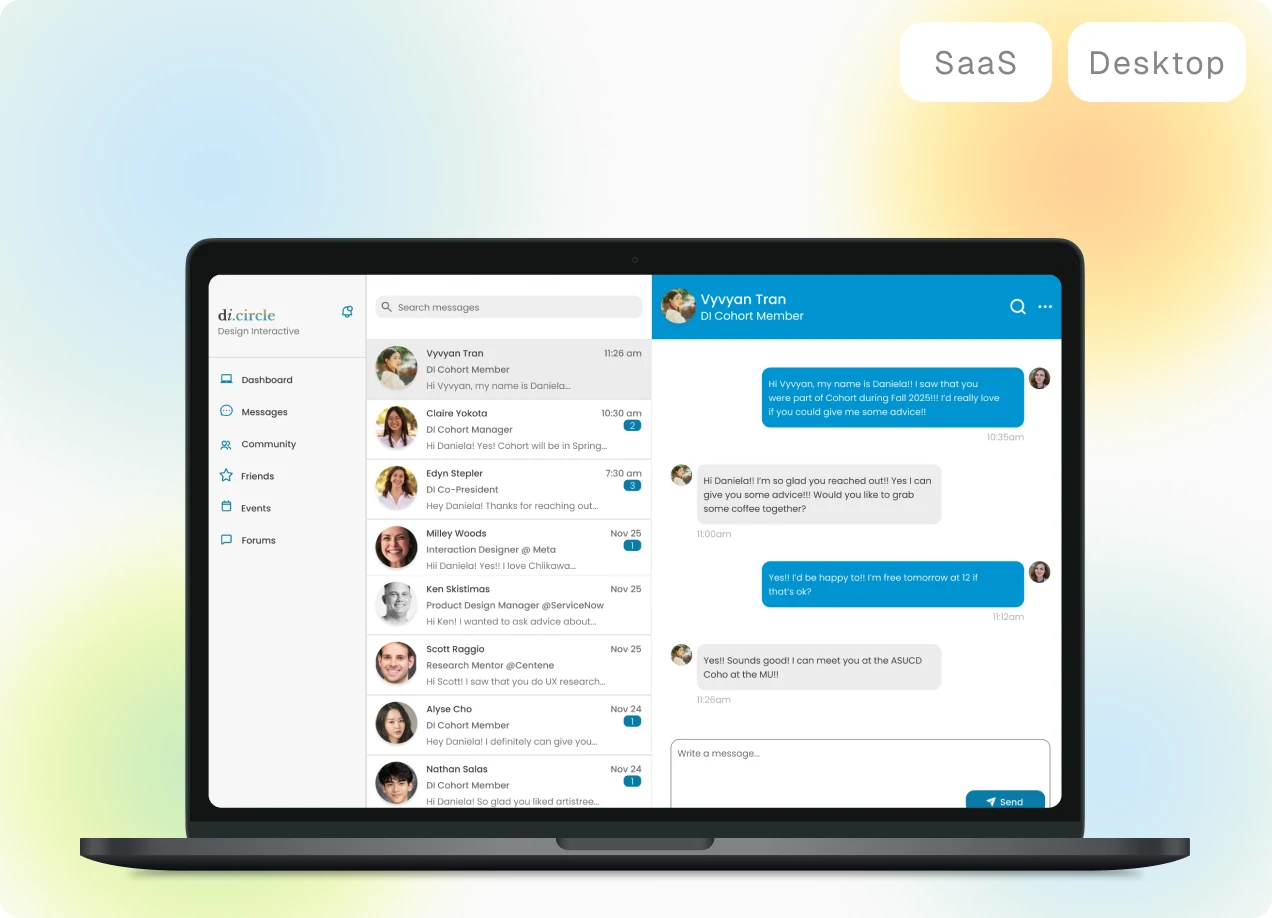
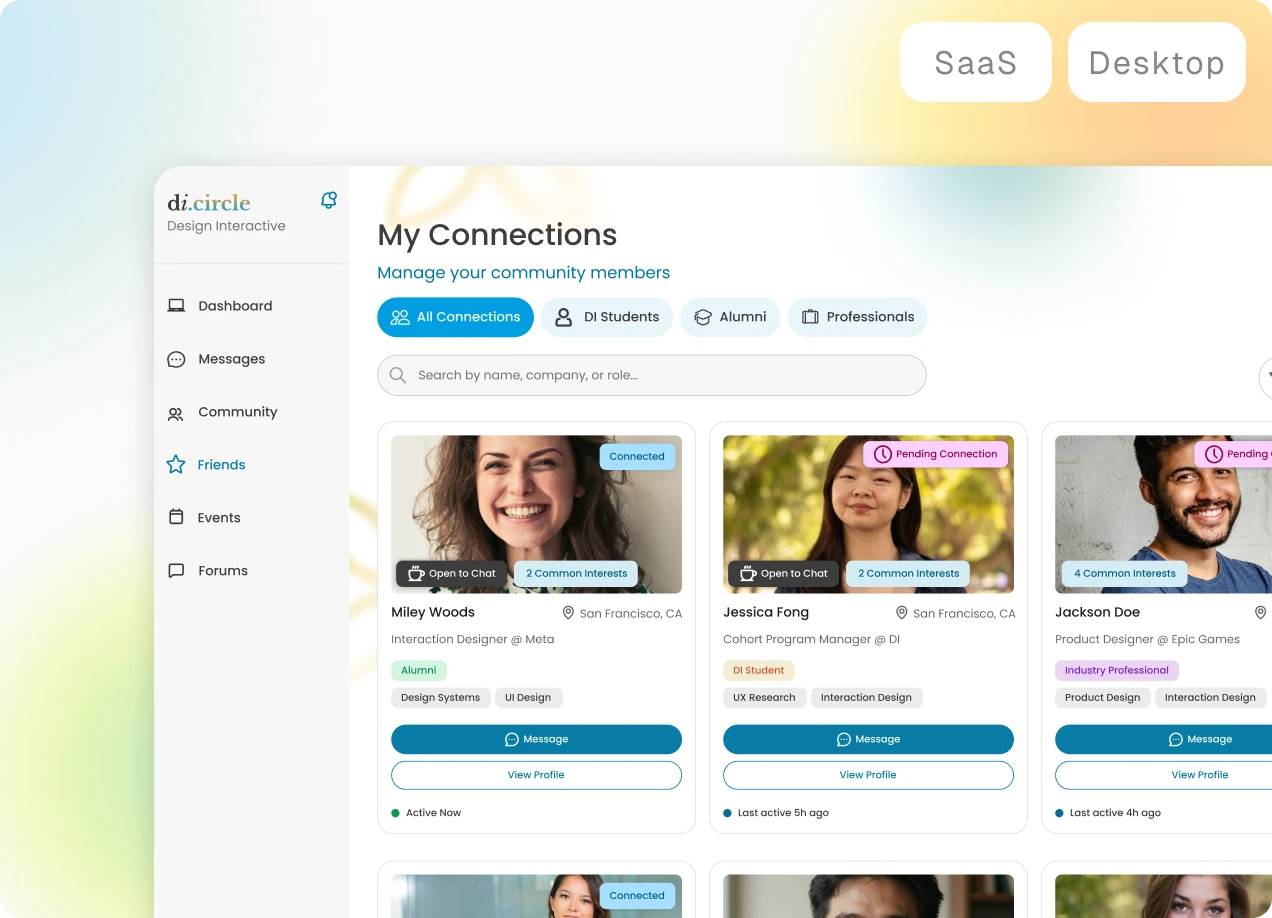
Update the di.circle card cover and copy
New cover is 1272x918 -- the same as the file it replaces and as the
ThreadIt cover -- so the grid is unchanged. Alt text updated to match what
the image now shows.

Title and subtitle now mirror the case study's own h1 and subtitle. The
title is 88 characters against ThreadIt's 58 but still sets on two lines at
1440, so both cards measure 663px tall; on a phone it runs to four lines
against ThreadIt's three.

diff --git a/src/components/WorkCards.tsx b/src/components/WorkCards.tsx
@@ -95,12 +95,13 @@ export default function WorkCards() {
               Design Interactive • Dec 2025
             </RevealText>
             <div style={{ position: "relative", width: "100%" }}>
-              <RevealImage src="/assets/cover-dicircle.webp" alt="The di.circle messaging dashboard on a laptop, showing a student's conversation with a cohort member" style={{ display: "block", width: "100%", height: "auto", borderRadius: 16 }} />
+              <RevealImage src="/assets/cover-dicircle.webp" alt="The di.circle My Connections screen, showing community member cards with their relationship states" style={{ display: "block", width: "100%", height: "auto", borderRadius: 16 }} />
               <div className="work-card-overlay" aria-hidden="true" />
             </div>
+            {/* Mirrors the case study's own h1 and subtitle. */}
             <CardText
-              title="Turning professional connections into lasting relationships"
-              subtitle="Helping students maintain professional relationships informed by usability testing with 8 students"
+              title="Lowering the psychological barrier to starting and maintaining professional relationships"
+              subtitle="Redesigning student-to-professional outreach through insights from 8 usability tests"
             />
             {/* Only rendered on touch devices (see .work-card-cta). */}
             <p className="work-card-cta">
